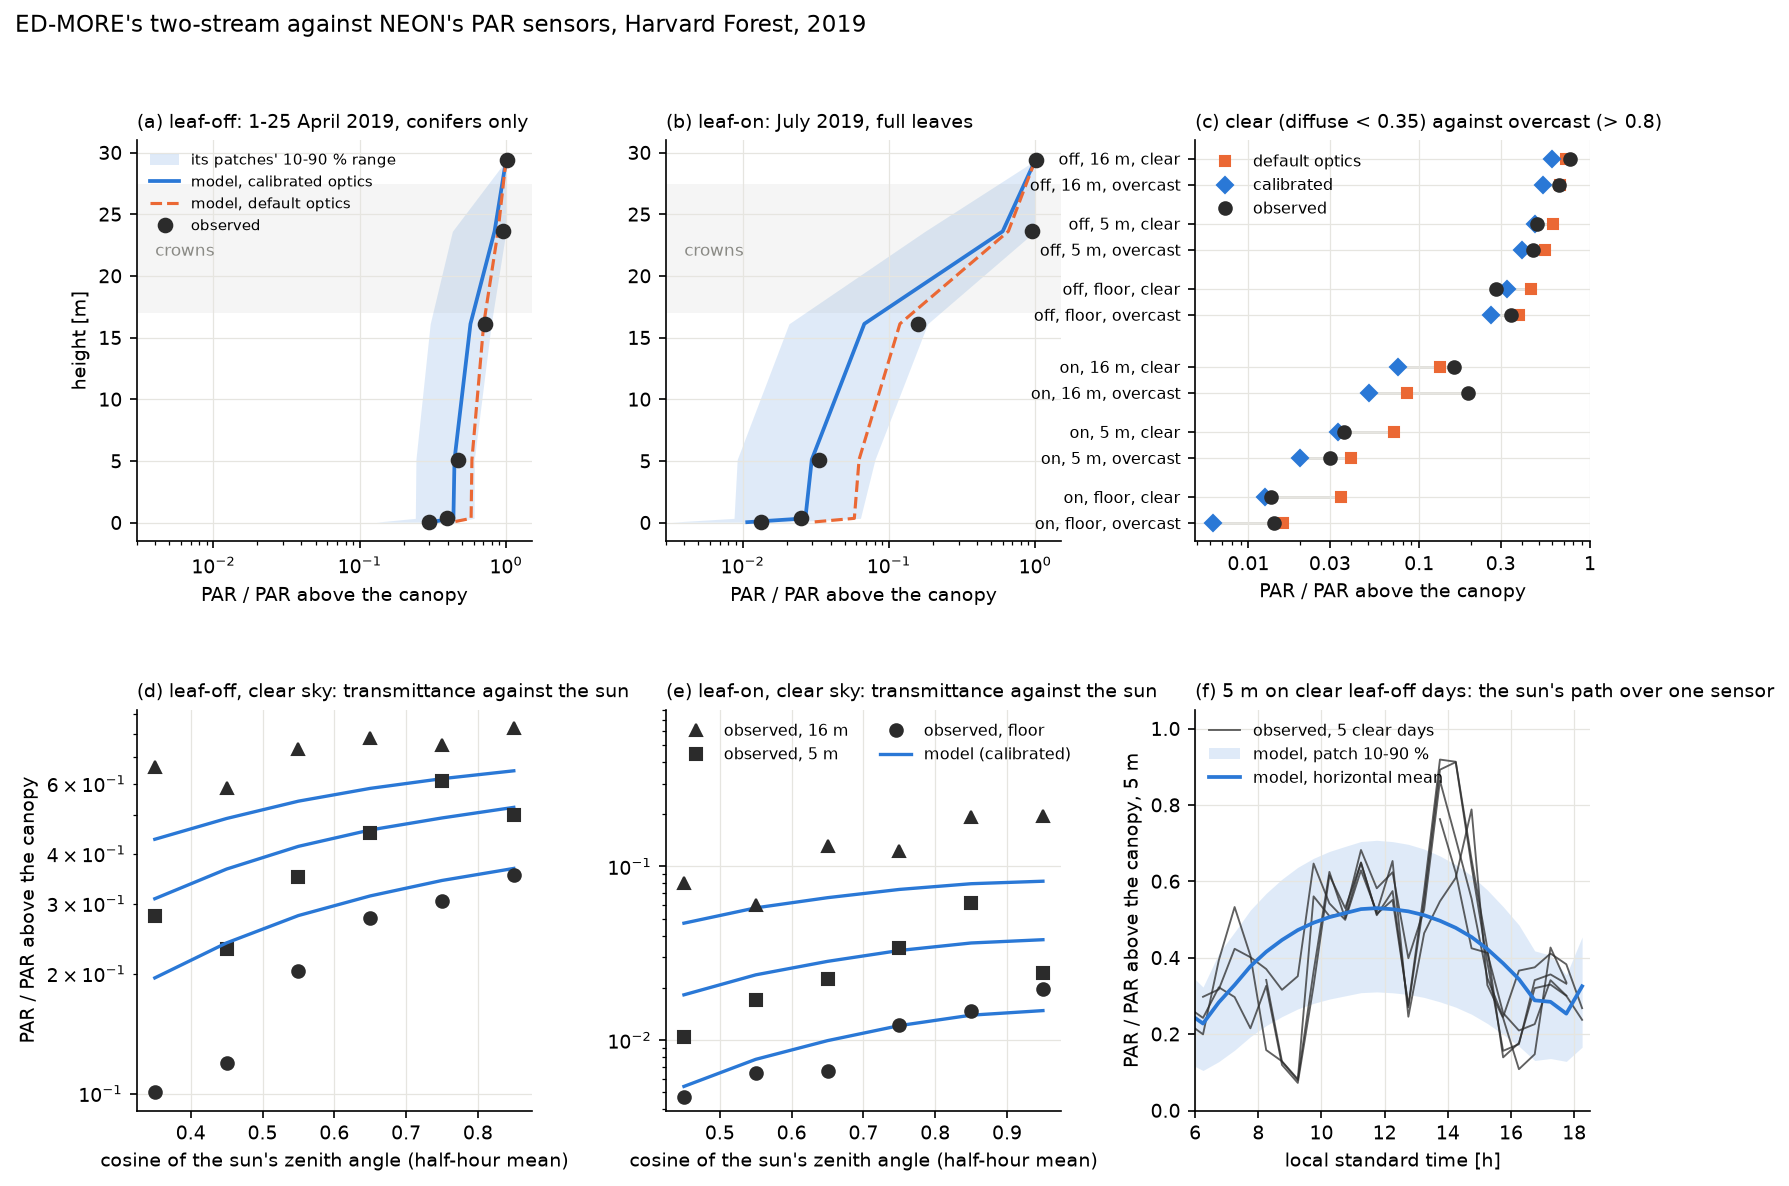
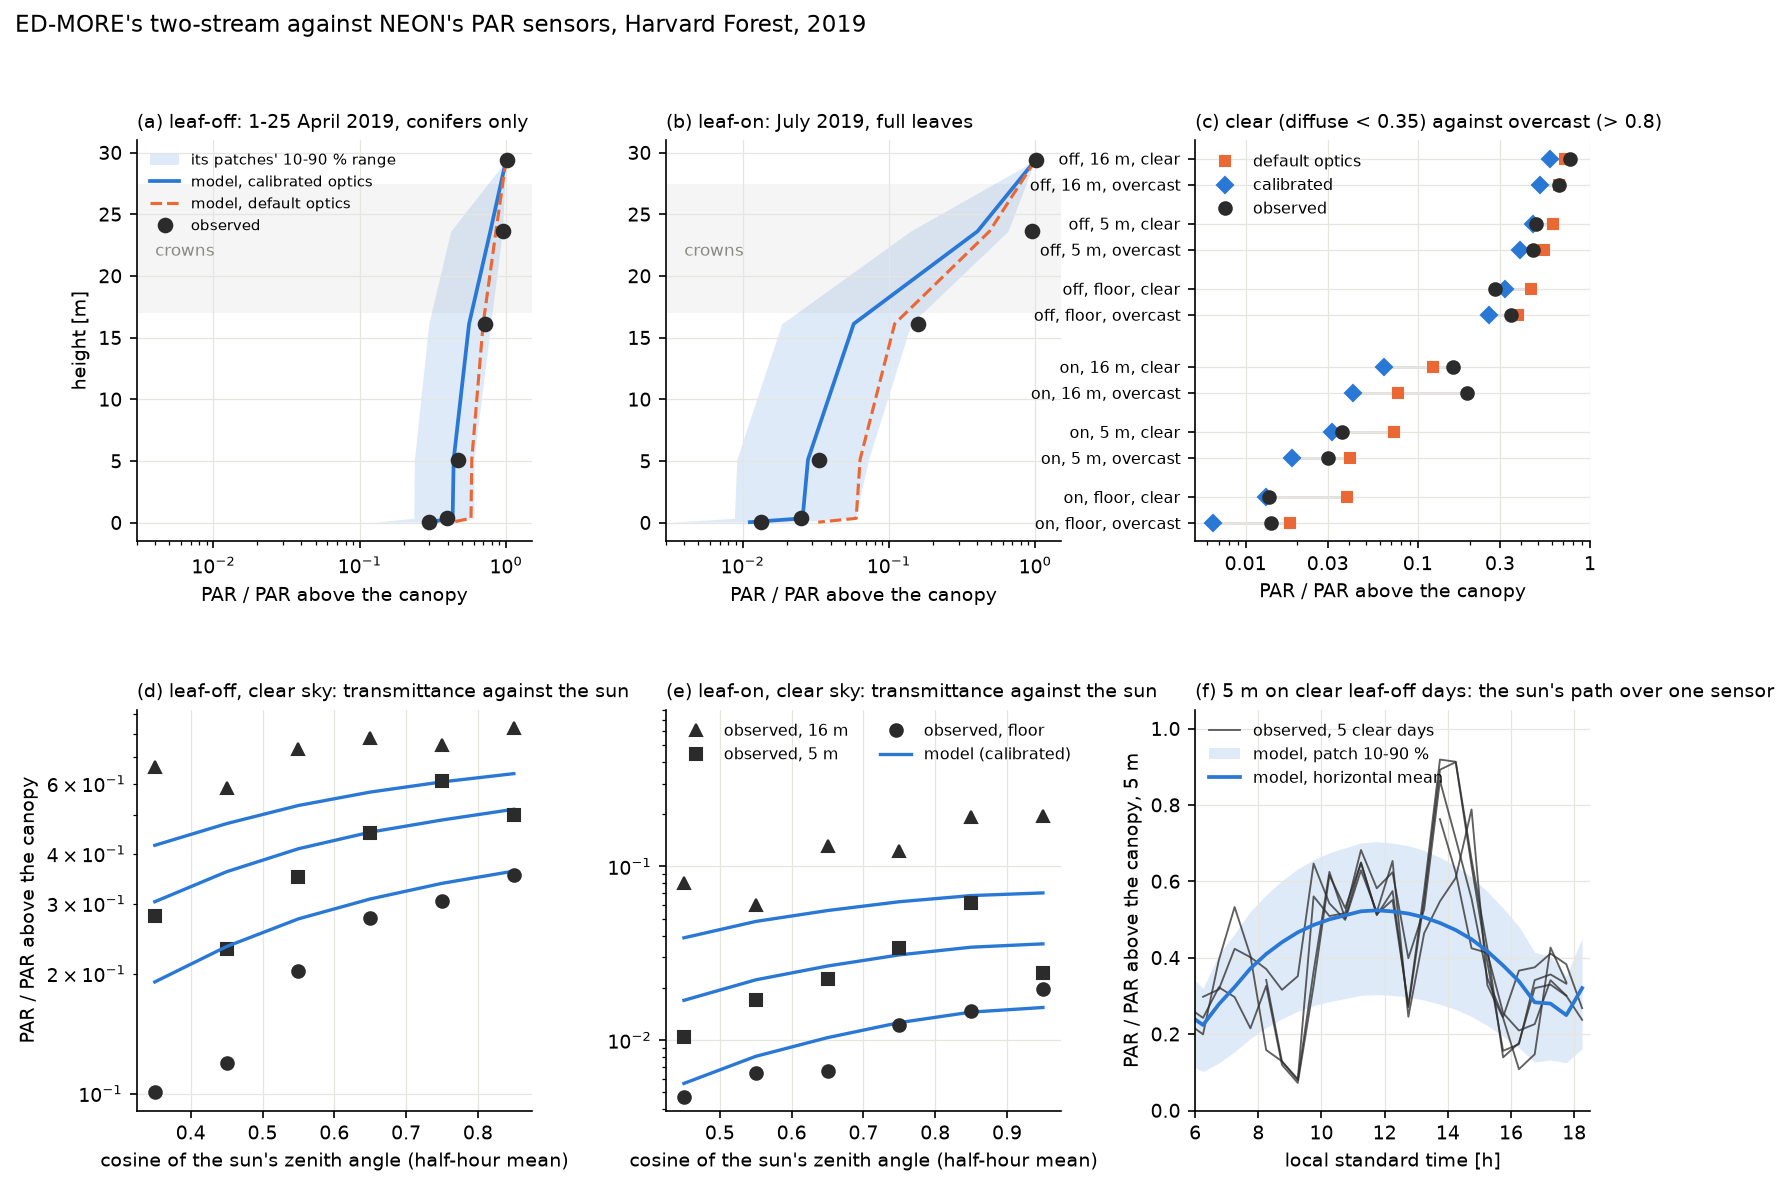
docs(examples): example 07 refit on the census's lumped trees
The stand around each sensor is one cohort per tree since the census tool lumps a tree's stems, so the
deciduous leaf area at the default lai_b1 falls (5.29 to 5.16 within 40 m of the two towers) and taller
trees reach the crowns. fit_allometry.py rescales the deciduous lai_b1 to the July LAI of 3.95 (0.1746 to
0.1791; the height curves are NEON's and unchanged), and calibrate_optics.py refits the foliage on 2019:
leaf clumping 0.933 to 0.956, mean leaf angle 33.9 (unchanged), wood clumping 1.0; cost 0.158 (default
optics 0.632). The held-out 2021 costs 0.19 (default 0.36). The light below the crowns is within 0.01 of
before; in July the model is darker at 24 m (0.40 against 0.60 before, the sensor 0.96). The surface
layers do not reach this example: its two-stream runs alone.

diff --git a/examples/example07_canopy_radiation/run_example.py b/examples/example07_canopy_radiation/run_example.py
@@ -58,7 +58,7 @@ HARVARD_PFT = {
     "allometry.chave_c":   [-0.097823, 0.00026528],
     "allometry.chave_rse": [0.25066, 0.25667],
     "allometry.hgt_max":   [28.0, 28.0],
-    "allometry.lai_b1":    [0.1746, 0.23384770],
+    "allometry.lai_b1":    [0.1791, 0.23384770],
 }
 ALLOM_KEYS = ("height_allometry", "chave_a", "chave_b", "chave_c", "chave_rse", "chave_e", "b1Ht", "b2Ht",
               "hgt_max", "lai_b1", "lai_b2", "wai_b1", "wai_b2")

diff --git a/examples/example07_canopy_radiation/README.md b/examples/example07_canopy_radiation/README.md
@@ -23,7 +23,7 @@ python fetch_data.py <data>                       # once, ~60 MB
 python run_example.py --data <data>               # ~10 s: output/model_vs_sensors.csv and the table
 python run_example.py --data <data> --year 2021   # the held-out year, in output/2021/
 python plot_example.py                            # output/canopy_radiation.png
-python calibrate_optics.py --data <data>          # optional, ~9 min: rewrites calibrated_optics.json
+python calibrate_optics.py --data <data>          # optional, ~3 min: rewrites calibrated_optics.json
 python fit_allometry.py --data <data>             # optional: derives HARVARD_PFT in run_example.py
 ```
 
@@ -44,7 +44,7 @@ given by `--token-file`. It downloads:
 | Height | ED-MORE's log-quadratic curve per PFT, fitted to 3,400 trees NEON measured at the site, capped at 28 m (the lidar canopy top) |
 | Leaf area | deciduous `lai_b1` scaled to a July LAI of 3.95, the median of litterfall × leaf mass per area (4.5), MODIS (3.8) and LAI-2000 (3.95) |
 | Wood angle | the default 75° ± 20°: the woody surface's inclination in unpublished TLS data |
-| Optics | leaf clumping 0.93, mean leaf angle 34°, wood clumping 1.0, calibrated to the sensors below the crowns in 2019 ([`calibrated_optics.json`](calibrated_optics.json)); every other key the default |
+| Optics | leaf clumping 0.96, mean leaf angle 34°, wood clumping 1.0, calibrated to the sensors below the crowns in 2019 ([`calibrated_optics.json`](calibrated_optics.json)); every other key the default |
 | A sensor's light | the downwelling PAR at the top of the tallest cohort layer at or below the sensor (`cohort_incid_vis`), the patches' area mean |
 
 The 20 m patches already hold the gaps between crowns, so the clumping within a layer comes out near 1.
@@ -59,15 +59,15 @@ PAR over the PAR above the canopy, sun above ~20°: observed / calibrated / defa
 
 | | April, leaf-off | July, leaf-on |
 |---|---|---|
-| 24 m | 0.96 / 0.84 / 0.88 | 0.96 / 0.60 / 0.66 |
-| 16 m | 0.72 / 0.57 / 0.70 | 0.16 / 0.07 / 0.12 |
-| 5 m | 0.47 / 0.45 / 0.59 | 0.033 / 0.030 / 0.063 |
-| 0.4 m | 0.39 / 0.44 / 0.58 | 0.025 / 0.027 / 0.058 |
-| floor | 0.26–0.32 / 0.22–0.43 / 0.33–0.57 | 0.009–0.017 / 0.009–0.012 / 0.026–0.033 (two sensors) |
+| 24 m | 0.96 / 0.78 / 0.85 | 0.96 / 0.40 / 0.49 |
+| 16 m | 0.72 / 0.56 / 0.70 | 0.16 / 0.06 / 0.11 |
+| 5 m | 0.47 / 0.44 / 0.58 | 0.033 / 0.028 / 0.064 |
+| 0.4 m | 0.39 / 0.43 / 0.58 | 0.025 / 0.026 / 0.060 |
+| floor | 0.26–0.32 / 0.21–0.42 / 0.32–0.57 | 0.009–0.017 / 0.011–0.012 / 0.031–0.035 (two sensors) |
 
 - **(a, b) Below the crowns** the calibrated model holds the light in both seasons; the default optics let
-  through about twice as much in July. **In 2021**, which the calibration did not see, the fit's cost
-  (mean squared log of model over observed) is 0.20, against 0.16 in 2019 and 0.33 with the default
+  through two to three times as much in July. **In 2021**, which the calibration did not see, the fit's cost
+  (mean squared log of model over observed) is 0.19, against 0.16 in 2019 and 0.36 with the default
   optics.
 - **In the crowns (16, 24 m) the model is too dark.** ED-MORE puts each cohort's leaves and wood in a thin
   layer at the tree's top, with no crown depth, so a sensor at 16 m has all of a 17–25 m tree's foliage
@@ -79,13 +79,13 @@ PAR over the PAR above the canopy, sun above ~20°: observed / calibrated / defa
     falls only to ×0.66–0.77.
   - The rest is the layers' horizontal uniformity: a low sun crosses whole crowns and trunks.
 - **(c) Under overcast skies** the light below the crowns is as high as under a clear sky, and the
-  model's is lower: in July, 0.020 against 0.030 at 5 m. The two-stream's diffuse light comes from an
+  model's is lower: in July, 0.019 against 0.030 at 5 m. The two-stream's diffuse light comes from an
   isotropic sky, while an overcast sky is brightest overhead.
 - **(f) A sensor is a point; the model a horizontal mean.** On clear days the light at 5 m swings between
   0.1 and 0.9 as the sun's path crosses gaps and trunks above the sensor. The pattern repeats from day to
   day (r = 0.97); under overcast skies the sensor varies by 4 %. So the comparison is made over each
-  window's sums, not half hour by half hour. The patches' 10–90 % range holds 89–94 % of the half hours
-  at 5 and 0.4 m, and 55–81 % on the floor.
+  window's sums, not half hour by half hour. The patches' 10–90 % range holds 89–93 % of the half hours
+  at 5 and 0.4 m, and 51–82 % on the floor.
 
 ## Files
 
